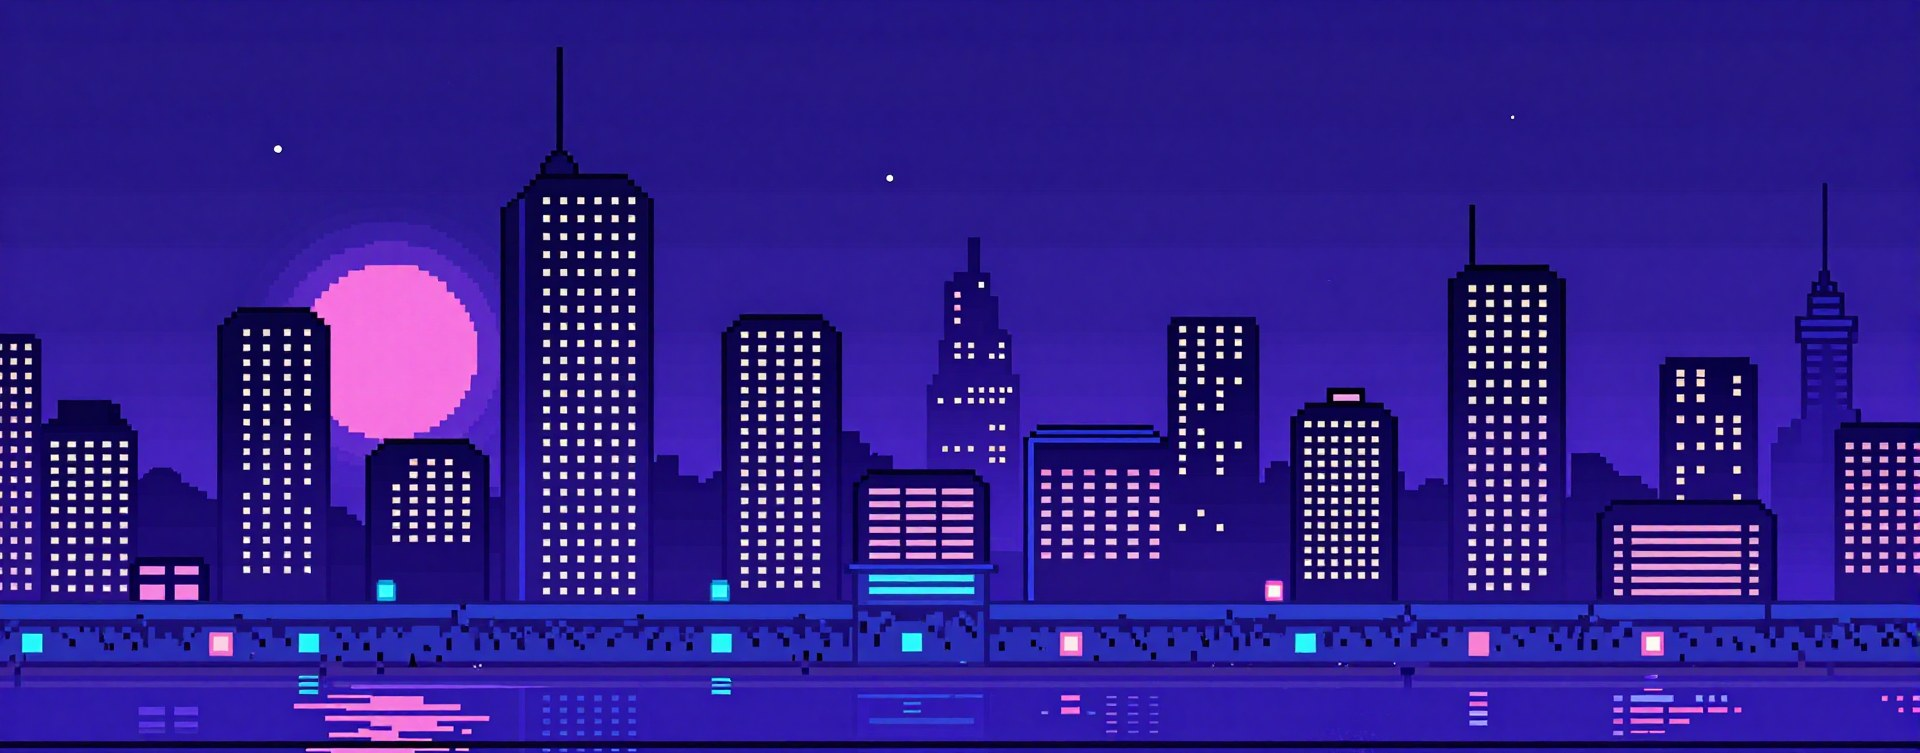
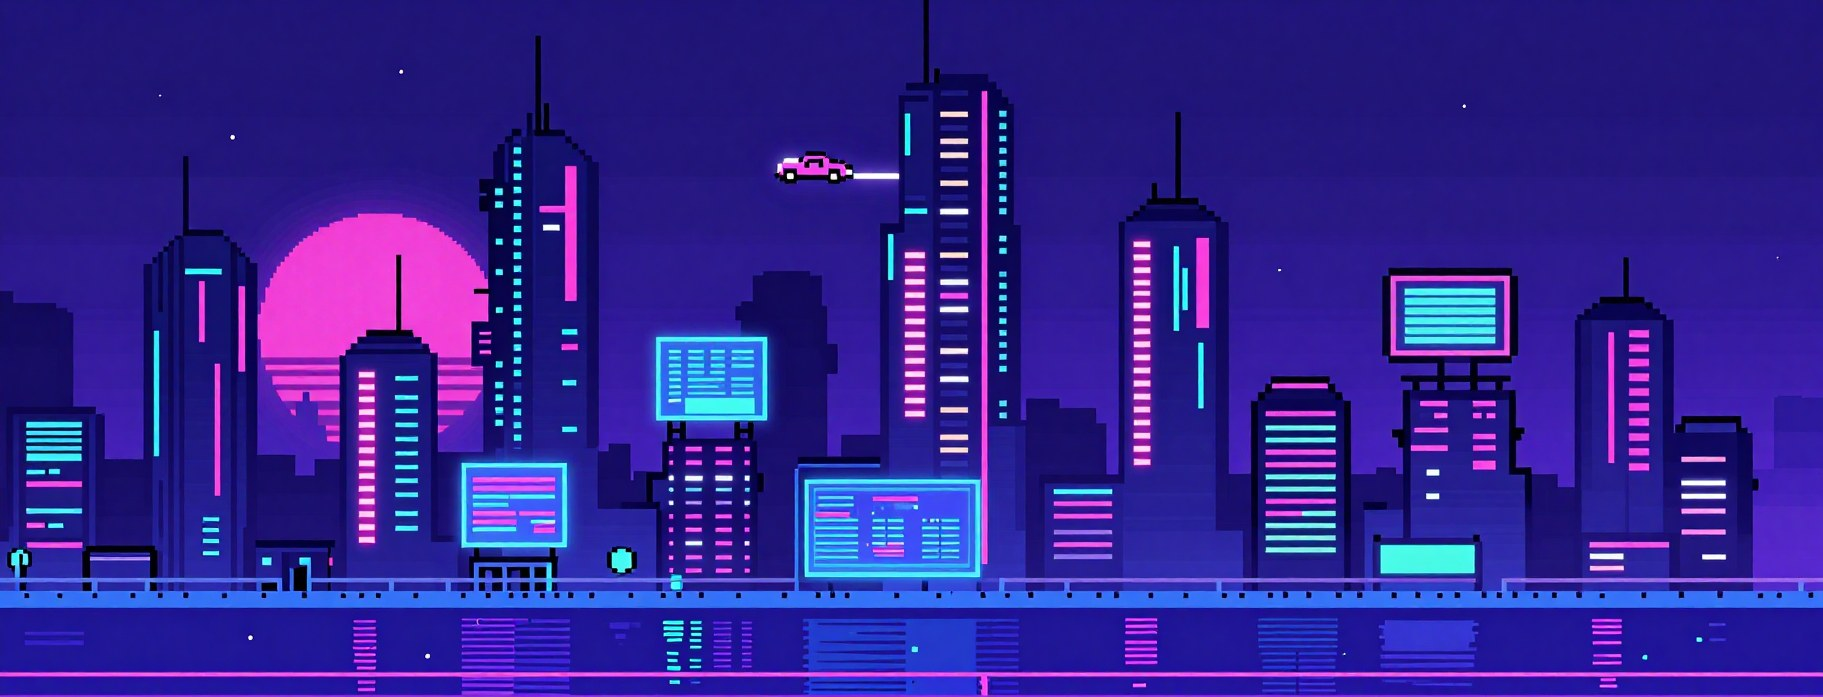
Backdrop: neon cyberpunk city (holo billboards, neon strips, flying car)

diff --git a/web/index.html b/web/index.html
@@ -498,7 +498,7 @@
   .hud b { margin-right: 7px; }
   /* the brand sheet's city on the horizon: really faint, fading out upwards, behind everything */
   body::before { content: ''; position: fixed; inset: auto 0 0 0; height: 70vh; z-index: -1; pointer-events: none;
-    background: url(/city.jpg) center bottom / cover no-repeat; opacity: .13;
+    background: url(/city.jpg?v=2) center bottom / cover no-repeat; opacity: .13;
     -webkit-mask-image: linear-gradient(to top, #000 0%, rgba(0, 0, 0, .6) 35%, transparent 85%); mask-image: linear-gradient(to top, #000 0%, rgba(0, 0, 0, .6) 35%, transparent 85%); }
   :root[data-theme="light"] body::before { opacity: .07; }
   @media (min-width: 861px) { body::before { left: 272px; } }  /* starts where the chat does, so the sun isn't behind the sidebar */
